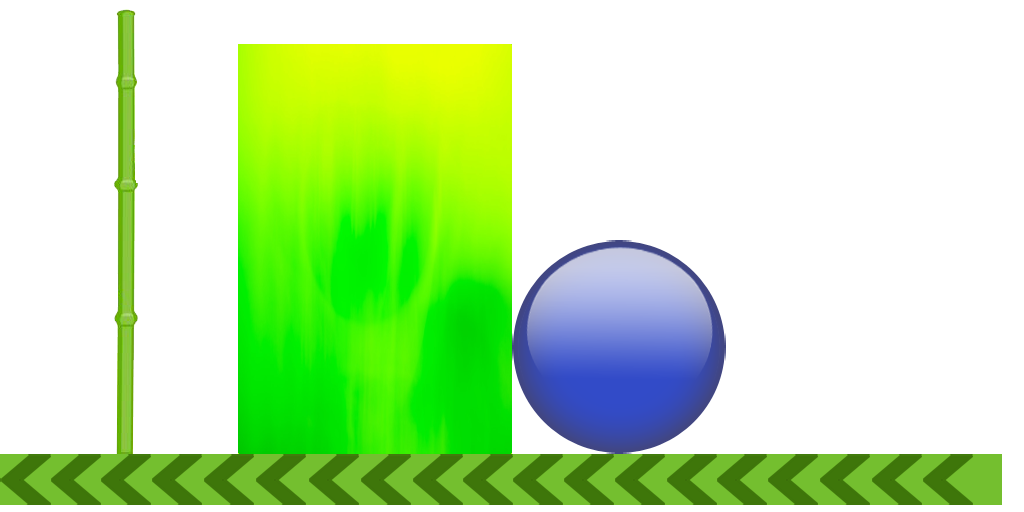
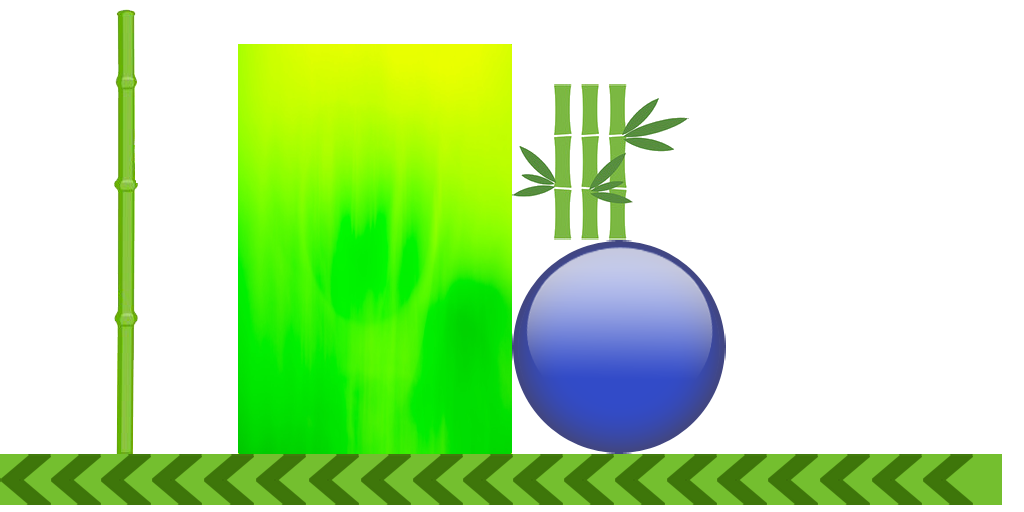
Minor Image Changes

Changed region(s): [[0.5, 0.1562, 0.6875, 0.4688]]

diff --git a/core/src/com/demonhunts/throughit/helpers/AssetLoader.java b/core/src/com/demonhunts/throughit/helpers/AssetLoader.java
@@ -35,17 +35,16 @@ public class AssetLoader {
 
         atlas = new TextureAtlas("images.pack");
         dot = atlas.findRegion("dot");
-        //dot = new TextureRegion(texture, 153, 0, 17, 12);
         dot.flip(false, true);
 
         bg = atlas.findRegion("back");
-        //bg = new TextureRegion(texture, 0, 0, 136, 43);
         bg.flip(false, true);
 
-        grass = new TextureRegion(texture, 0, 43, 143, 11);
+        grass = atlas.findRegion("bottom");
         grass.flip(false, true);
 
-        bar = new TextureRegion(texture, 136, 16, 22, 3);
+//        bar = new TextureRegion(texture, 136, 16, 22, 3);
+        bar = atlas.findRegion("bambooCluster");
         bar.flip(false, true);
 
         prefs = Gdx.app.getPreferences("ThroughIt");

diff --git a/core/src/com/demonhunts/throughit/gameworld/GameWorld.java b/core/src/com/demonhunts/throughit/gameworld/GameWorld.java
@@ -25,7 +25,7 @@ public class GameWorld {
         currentState = GameState.READY;
         dot = new Dot(33,midPointY-9,17,17);
         scroller = new ScrollHandler(this,midPointY + 66);
-        ground = new Rectangle(0,midPointY+66,136,11);
+        ground = new Rectangle(0,midPointY*2-11,136,11);
         ceiling = new Rectangle(0,0,136,0);
         this.midPointY = midPointY;
     }
